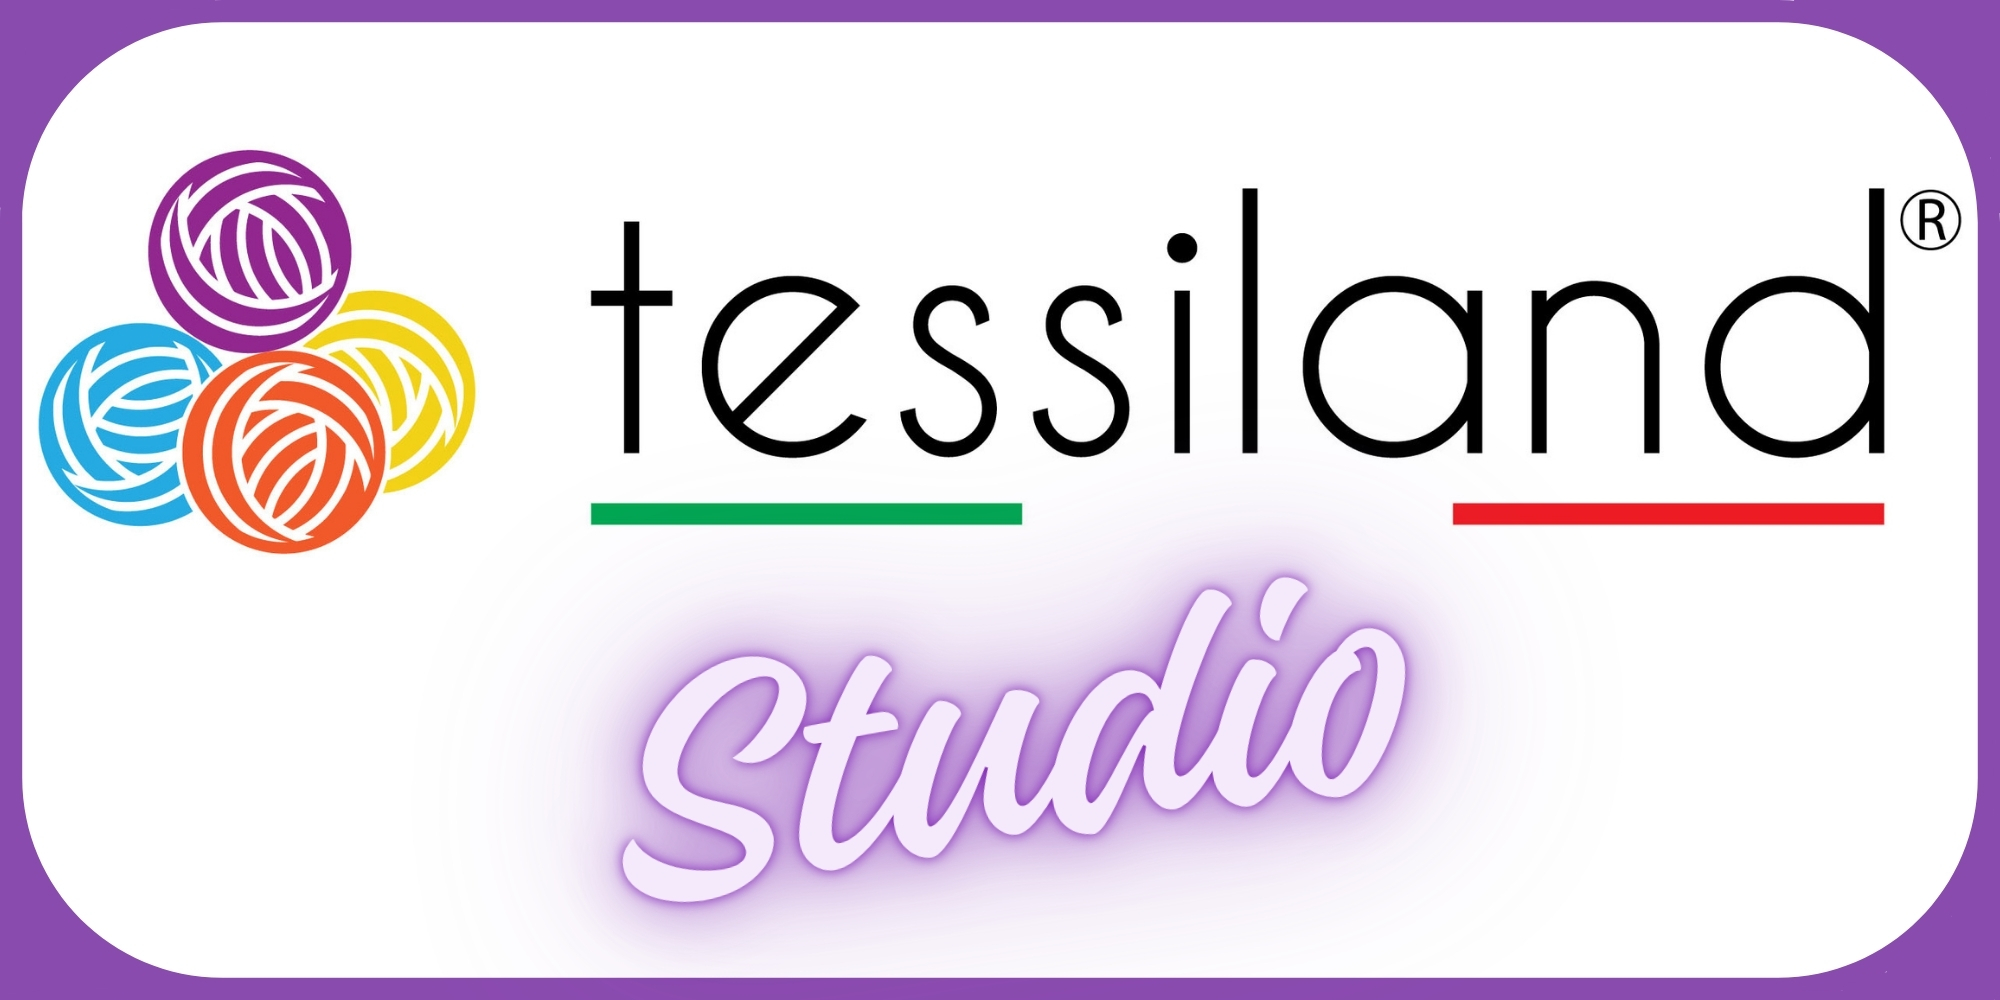
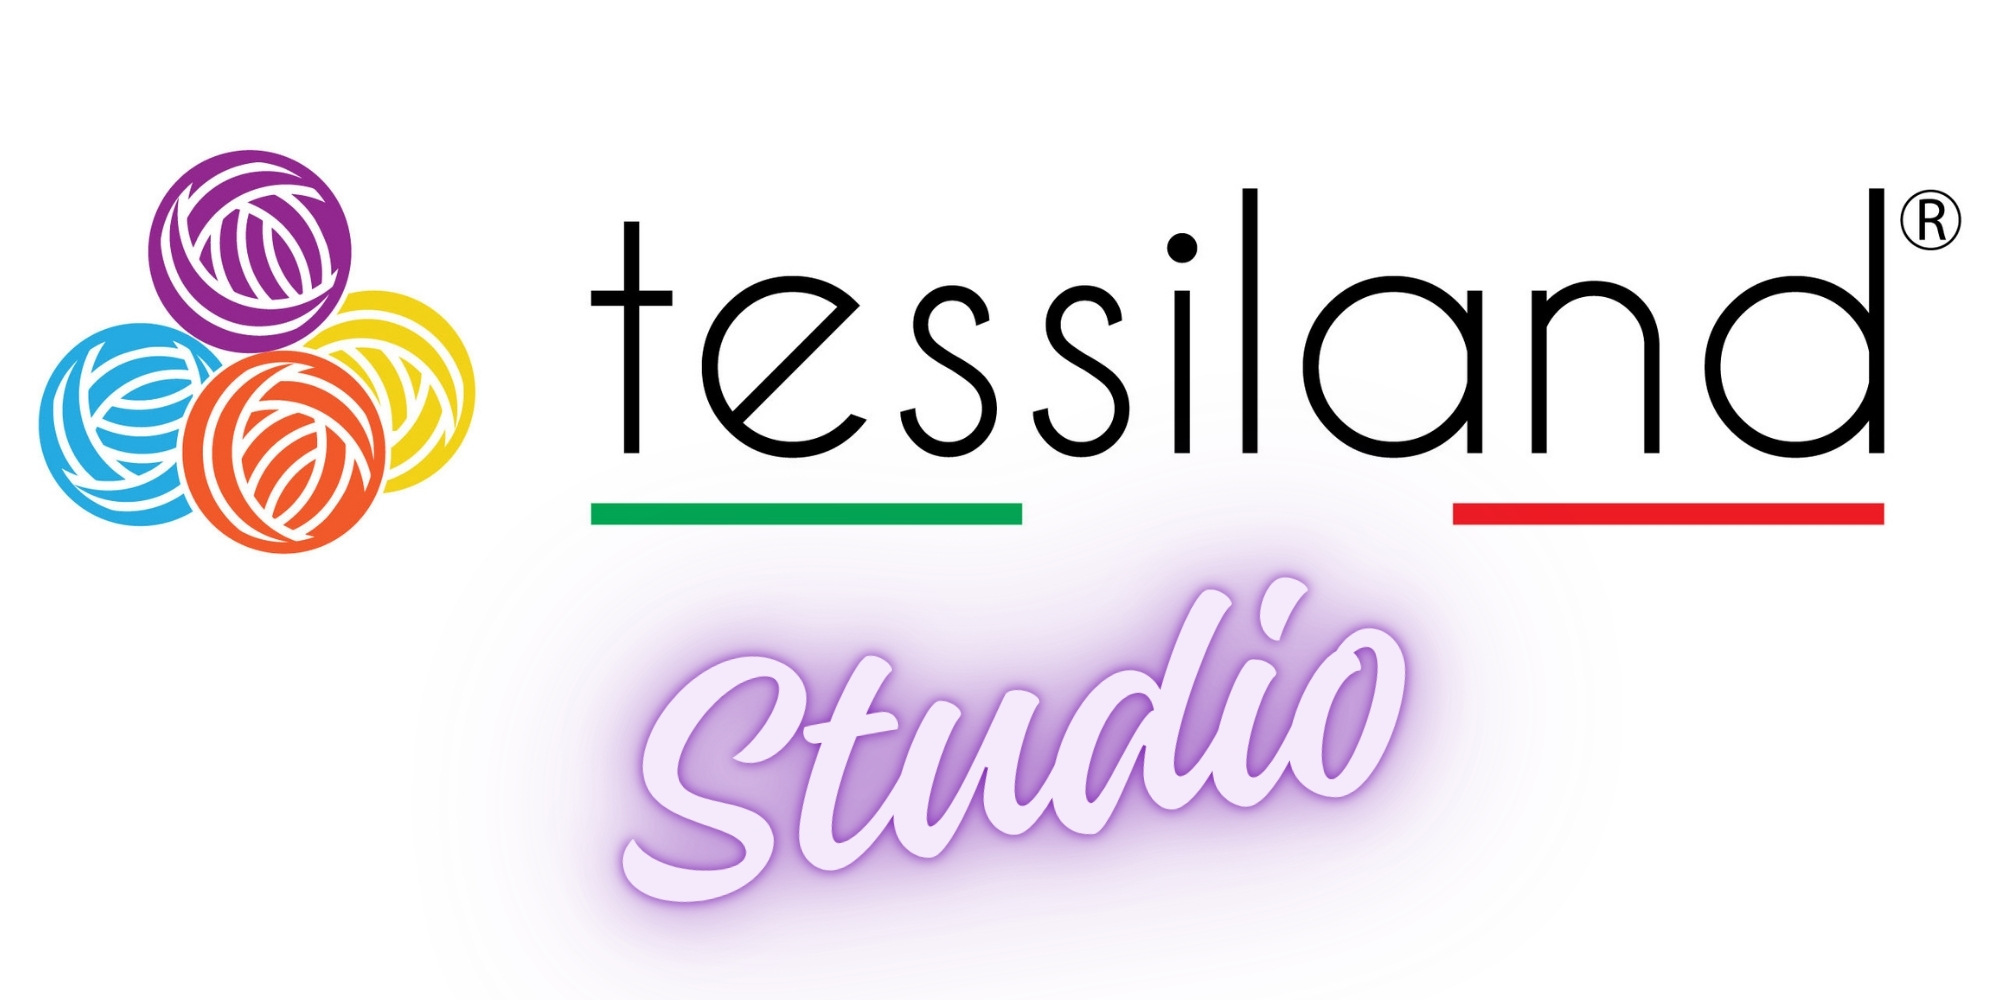
Versione finale con migliorie grafiche

Changed region(s): [[0.0, 0.0, 1.0, 1.0]]

diff --git a/css/style 2.css b/css/style 2.css
@@ -25,40 +25,27 @@ main { max-width: 1200px; margin: 2rem auto; padding: 0 1rem; }
 /* NUOVO BLOCCO */
 /* NUOVO BLOCCO */
 header {
-    background-color: #8a4baf; /* Colore di sfondo viola */
+    background-color: #8a4baf; /* Colore di sfondo esatto come richiesto */
     color: white;
-    padding: 1rem 0 1.5rem 0; /* Spazio sopra e sotto la fascia bianca */
+    padding: 2rem 1.5rem;
     border-bottom-left-radius: 30px;
     border-bottom-right-radius: 30px;
     display: flex;
     flex-direction: column;
     justify-content: center;
     align-items: center;
-    gap: 1rem;
+    gap: 1.5rem; /* Aumentato un po' lo spazio */
 }
-
-.logo-background-container {
-    background-color: white;
-    width: 100%;
-    padding: 1.5rem 0;
-    text-align: center;
-}
-
-.header-logo-titolo {
-    max-width: 450px;
-    width: 80%;
-    height: auto;
-    display: block; /* Necessario per centrare con margin auto */
-    margin: 0 auto; /* Centra l'immagine nel suo contenitore */
-}
-
 .header-content {
     text-align: center;
-    padding: 0 1rem; /* Aggiunge spazio laterale al sottotitolo */
 }
-
+.header-logo-titolo {
+    max-width: 750px; /* Imposta una larghezza massima per il logo-titolo */
+    width: 80%; /* Si adatta a schermi più piccoli */
+    height: auto; /* L'altezza si adatterà in proporzione */
+}
 .sottotitolo {
-    margin: 0;
+    margin: 0.5rem 0 0 0;
     font-family: var(--font-body);
     font-style: italic;
     opacity: 0.9;

diff --git a/index.html b/index.html
@@ -4,19 +4,18 @@
     <meta charset="UTF-8">
     <meta name="viewport" content="width=device-width, initial-scale=1.0">
     <title>M4P - Il Catalogo Magico di Tessiland</title>
+    <link rel="icon" href="assets/images/favicon.png" type="image/png">
     <link rel="stylesheet" href="css/style.css">
 </head>
 <body>
- <header>
-    <div class="header-content">
+<header>
+    <div class="logo-background-container">
         <img src="assets/images/log_tessiland_2000x1000.jpg" alt="Logo Tessiland STUDIO" class="header-logo-titolo">
+    </div>
+    <div class="header-content">
         <p class="sottotitolo">Trova il tutorial perfetto, il filato giusto e calcola tutto ciò che ti serve.</p>
     </div>
     <div class="guida-container">
-        <button id="refresh-btn" class="guida-btn" style="background-color: var(--success-color); color: white;">
-            <svg viewBox="0 0 24 24" fill="currentColor" width="16" height="16" style="vertical-align: middle; margin-right: 5px;"><path d="M17.65,6.35C16.2,4.9 14.21,4 12,4A8,8 0 0,0 4,12A8,8 0 0,0 12,20C15.73,20 18.84,17.45 19.73,14H17.65C16.83,16.33 14.61,18 12,18A6,6 0 0,1 6,12A6,6 0 0,1 12,6C13.66,6 15.14,6.69 16.22,7.78L13,11H20V4L17.65,6.35Z"></path></svg>
-            Aggiorna Catalogo
-        </button>
         <button id="guida-testuale-btn" class="guida-btn">Guida Testuale</button>
         <button id="video-guida-btn" class="guida-btn">Guida Video</button>
     </div>
